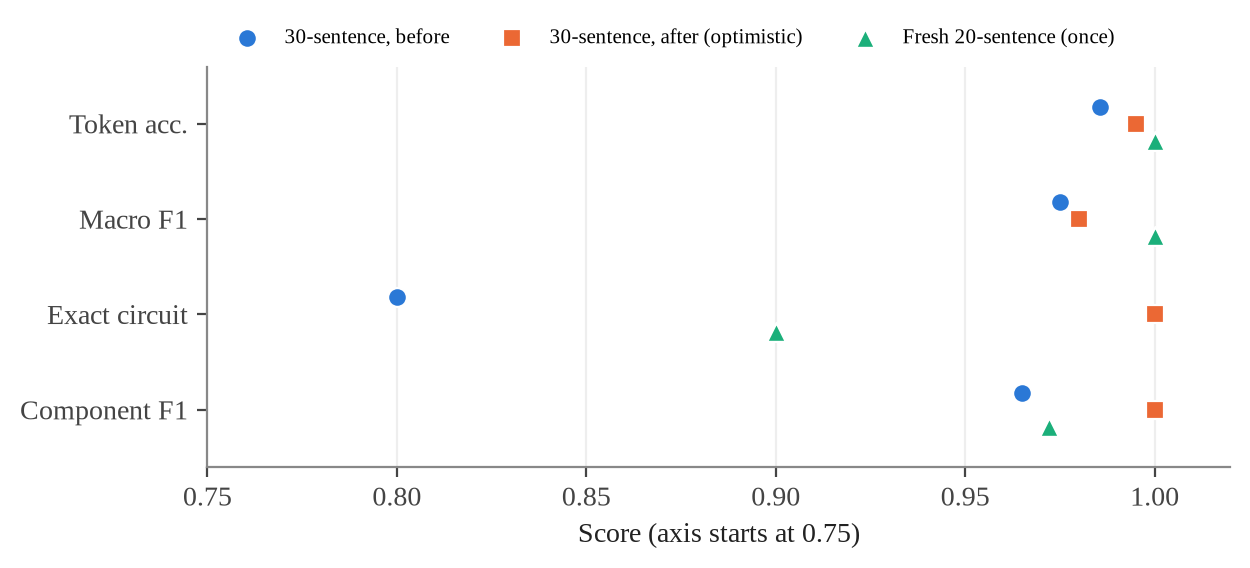
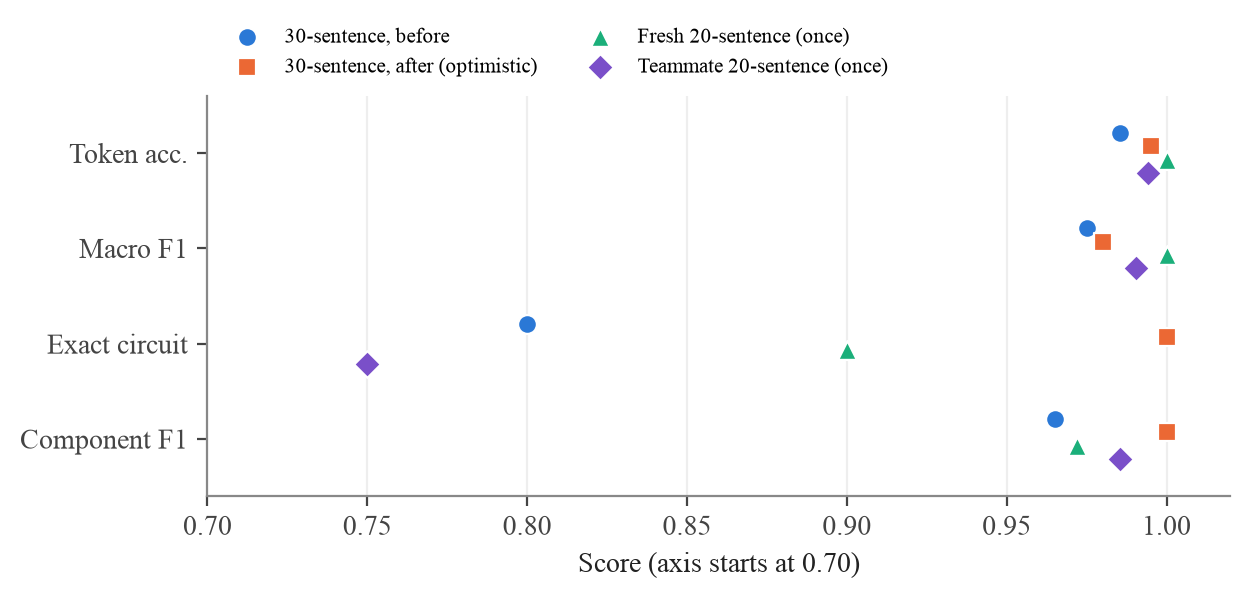
Report: 125 tests, the teammate NLP set, and the drafter-12 references
Updates the test count and per-file table, adds the T-7 result (0.75 exact
on a set written without seeing the parser) to the NLP table, chart and
discussion, and describes the T-3 reference netlists in the methodology.
Real CGHD values stay PENDING. The Word file was not rebuilt here
(LibreOffice and poppler are not installed on this machine).

diff --git a/report/content.js b/report/content.js
@@ -62,7 +62,7 @@ module.exports.prelim = {
   abstract: [
     ["p", "Engineers and students routinely sketch circuits on paper, but simulating a sketch requires retyping it as a SPICE netlist, which is slow and error-prone. This project presents **CircuitVision**, a system that converts a phone photograph of a hand-drawn circuit, or an English description of one, into a SPICE netlist that is formally validated and simulated."],
     ["p", "The image path combines computer vision and image processing: a YOLOv8s detector for nine symbol classes, a HOG and linear-SVM classifier for the orientation (and hence polarity) of diodes and sources, paper-relative binarisation with Otsu thresholding, scale-adaptive wire tracing with crossover handling, and EasyOCR for component values. The text path uses NLP: a hidden Markov model tagger with Viterbi decoding and a series-parallel semantic parser. Both paths share a context-free grammar with an Earley recogniser and semantic checks, followed by ngspice simulation. The detector is trained on the public CGHD dataset with a drafter-wise split (validation drafter 11, test drafter 12)."],
-    ["p", "On synthetic drawings with known circuit graphs, the wire tracer recovers the exact topology in 99.4% of 165 trials across eleven photo conditions, and 18 of 18 circuits match their reference netlists, including the simulated operating point, when ground-truth boxes are used. The text path reaches 90% exact circuit match on a fresh 20-sentence test set. The real CGHD detection experiment is fully prepared but had not been run at the time of writing, so no real-photo accuracy is claimed; those results are marked as pending."],
+    ["p", "On synthetic drawings with known circuit graphs, the wire tracer recovers the exact topology in 99.4% of 165 trials across eleven photo conditions, and 18 of 18 circuits match their reference netlists, including the simulated operating point, when ground-truth boxes are used. The text path reaches 90% exact circuit match on a fresh 20-sentence test set, and 75% on a second 20-sentence set written by a teammate who had not seen the parser. The real CGHD detection experiment is fully prepared but had not been run at the time of writing, so no real-photo accuracy is claimed; those results are marked as pending."],
   ],
 };
 
@@ -171,7 +171,7 @@ module.exports.chapters = [
    "**Reproducibility:** fixed training configuration and seed, dataset pinned by MD5, every run's configuration and environment recorded.",
    "**Honesty of reporting:** every number labelled as real, synthetic/controlled, hand-written evaluation or pending; proxies named as proxies.",
    "**Robustness:** processing parameters scale with the size of the drawing, so the same code handles 400-pixel scans and 4,000-pixel phone photos.",
-   "**Testability:** every stage covered by automated pytest regression tests (107 tests at the time of writing).",
+   "**Testability:** every stage covered by automated pytest regression tests (125 tests at the time of writing).",
    "**Portability:** runs on CPU for inference and tests (macOS or Linux); training uses a Colab T4 GPU.",
    "**Resumability:** the experiment notebook resumes after a disconnect without repeating finished stages.",
  ]],
@@ -214,10 +214,10 @@ module.exports.chapters = [
  ["h3", "4.2.2 Train / validation / test separation"],
  ["p", "The split is by **drafter**, so no person's handwriting appears in both training and test data: validation is `drafter_11`, test is `drafter_12`, and all other drafters are used for training. The split was fixed before any training. It differs from the split used by Bayer *et al.* (test drafters 23–24) {cite:modular}, so the numbers are not directly comparable with theirs."],
  ["h3", "4.2.3 Synthetic data with known circuit graphs"],
- ["p", "CGHD release 14 contains bounding boxes but no ground-truth circuit graphs, so the correctness of a reconstructed circuit cannot be measured on real photos. To measure topology exactly, a generator (`synth.py`) draws five circuits with known graphs (a voltage divider, a parallel RC with junction dots, two independent loops crossing twice, a series RLC and a Wheatstone-style bridge) under eleven photo conditions ({fig:conditions}). It can also write a synthetic tree in the CGHD format, with reference netlists, so that the full evaluation harness runs end to end. **Results on these data are labelled SYNTHETIC and say nothing about real photos.**"],
+ ["p", "CGHD release 14 contains bounding boxes but no ground-truth circuit graphs, so the correctness of a reconstructed circuit cannot be measured on real photos. To measure topology exactly, a generator (`synth.py`) draws five circuits with known graphs (a voltage divider, a parallel RC with junction dots, two independent loops crossing twice, a series RLC and a Wheatstone-style bridge) under eleven photo conditions ({fig:conditions}). It can also write a synthetic tree in the CGHD format, with reference netlists, so that the full evaluation harness runs end to end. **Results on these data are labelled SYNTHETIC and say nothing about real photos.** For the real test drafter, reference netlists were written for the 12 drawings that contain in-scope symbols (circuits C133–C138, two drawings each; C139–C144 are logic-gate diagrams with nothing to reconstruct). They were drafted from the photos without running the pipeline and checked against the photos by a team member. Out-of-scope parts (switches, AC sources) are left out of these references with their terminals kept apart, as the pipeline masks them, so only circuit C137 is complete enough to simulate."],
  ["fig", "fig_conditions.png", 540, "conditions", "Six of the eleven synthetic photo conditions applied to the crossover circuit"],
  ["h3", "4.2.4 Text data"],
- ["p", "The HMM tagger is trained on 3,000 sentences generated from templates with lexical variation (`nlp/corpus.py`). Evaluation uses two **hand-written** sets that the training corpus never sees: a 30-sentence set frozen before the NLP improvements (later used for error analysis, so its post-change score is optimistic), and a fresh 20-sentence set written after development and evaluated exactly once."],
+ ["p", "The HMM tagger is trained on 3,000 sentences generated from templates with lexical variation (`nlp/corpus.py`). Evaluation uses three **hand-written** sets that the training corpus never sees: a 30-sentence set frozen before the NLP improvements (later used for error analysis, so its post-change score is optimistic), a fresh 20-sentence set written after development and evaluated exactly once, and a second 20-sentence set written by a teammate who had not seen the parser or the earlier sets, kept exactly as typed (final full stops included) and also evaluated exactly once."],
  ["h2", "4.3 Data Preprocessing"],
  ["h3", "4.3.1 Annotation conversion"],
  ["p", "Each VOC object is mapped through the explicit class table ({tab:classmap}); boxes are clipped to the image and zero-area boxes are dropped, with every change counted in `conversion_stats.json`. YOLO labels are written as `class cx cy w h`, normalised by the annotated image size."],
@@ -271,7 +271,7 @@ module.exports.chapters = [
    ["EasyOCR", "1.7.2", "Reading values"],
    ["ngspice {cite:ngspice}", "42", "Circuit simulation"],
    ["Gradio {cite:gradio}", "≥ 5", "Web demo"],
-   ["pytest", "—", "107 regression tests"],
+   ["pytest", "—", "125 regression tests"],
    ["Google Colab (T4 GPU) + Drive", "—", "Training and evaluation runs"],
    ["Git / GitHub", "—", "Version control, pull requests"],
  ], [3000, 2300, 3366]],
@@ -321,7 +321,7 @@ module.exports.chapters = [
    "**Defaults.** Without a readable value, components get placeholder defaults (R 1k, C 1u, L 1m, V DC 5); diodes use a generic `.model DMOD D`. An element without exactly two terminals is not emitted but flagged as a `* WARNING` comment, so a broken reconstruction is visible rather than silently wrong.",
    "**Text parser.** Each component noun takes its nearest unclaimed value; an explicit unit decides the class; count words (\"two 1k resistors\") repeat elements; parentheses group explicitly; a comma followed by an operator closes the preceding clause (\"A and B in parallel, in series with C\" → S(P(A,B),C)); otherwise operators attach to the right, as in prepositional-phrase attachment. The source is placed across the whole load.",
    "**Evaluation.** `evaluate.py` runs every downstream stage twice, with ground-truth boxes (an oracle detector) and with detector boxes, on all images and on the subset without out-of-scope symbols, and writes CSV files, netlists and a JSON summary. `report_tables.py` builds the results tables only from these files and prints NOT AVAILABLE when an artefact is missing.",
-   "**Testing and reproducibility.** 107 pytest tests across 13 files cover every stage, including one real CGHD annotation file as a regression fixture. The experiment notebook pins package versions, records the commit, the dataset checksum, the GPU and the full package list, and bundles all evidence into a ZIP file.",
+   "**Testing and reproducibility.** 125 pytest tests across 14 files cover every stage, including one real CGHD annotation file as a regression fixture. The experiment notebook pins package versions, records the commit, the dataset checksum, the GPU and the full package list, and bundles all evidence into a ZIP file.",
  ]],
  ["h2", "5.5 Screenshots of the Running System"],
  ["p", "{fig:app} shows the Gradio web demo processing a synthetic drawing with a detector trained on synthetic data (the real-data model is pending). The overlay colours each net; the netlist reads the handwritten-style values `4k7`, `9V` and `220`; validation passes; and ngspice gives v(2) = 0.4024 V, which matches 9 × 220 / (4700 + 220). {fig:console1} and {fig:console2} show the command-line tools and the test suite."],
@@ -354,7 +354,7 @@ module.exports.chapters = [
    ["Detection", "Precision, recall, mAP@0.5, mAP@0.5:0.95, per-class AP, confusion matrix", "Ultralytics validation on test drafter 12; error categories at IoU 0.5, confidence 0.25"],
    ["Orientation", "Accuracy", "Against CGHD rotation binned to 90°, mirrored symbols excluded; valid only under the Gate 1 convention"],
    ["OCR", "Exact match; character accuracy (1 − CER)", "On ground-truth text boxes; all labels and value-like labels"],
-   ["Topology", "Topology / exact / operating-point match", "Only where a reference netlist exists (synthetic data)"],
+   ["Topology", "Topology / exact / operating-point match", "Only where a reference netlist exists: synthetic data, and 12 drafter-12 drawings (operating point only for the one complete circuit)"],
    ["Topology (real)", "2-terminal share; cross-photo consistency", "Proxies: consistent is not the same as correct"],
    ["Netlist", "Valid share; simulates share", "A valid netlist is not necessarily the drawn circuit"],
    ["Text path", "Token accuracy, per-tag P/R/F1, macro F1, exact circuit match, component P/R/F1", "Tagging scored on gold tokens; circuit scored from the raw sentence"],
@@ -390,9 +390,10 @@ module.exports.chapters = [
    ["30-sentence set, before NLP changes", "30", "0.986", "0.975", "0.800", "0.965", "1.000"],
    ["30-sentence set, after changes (optimistic)", "30", "0.995", "0.980", "1.000", "1.000", "1.000"],
    ["Fresh 20-sentence set, evaluated once", "20", "1.000", "1.000", "0.900", "0.972", "1.000"],
+   ["Teammate 20-sentence set, evaluated once", "20", "0.994", "0.990", "0.750", "0.986", "1.000"],
  ], [2866, 650, 950, 950, 1100, 1100, 1050]],
- ["fig", "fig_nlp_chart.png", 500, "nlpchart", "Text-to-netlist scores on the three evaluation runs (HAND-WRITTEN)"],
- ["p", "The 30-sentence set was frozen before any NLP change, but development then targeted the error categories its baseline exposed, so its after-score is optimistic. The fresh set, written after development and evaluated once, is the clean estimate: 90% exact circuit match, with every generated netlist valid. On the synthetic corpus, the tagger reaches 1.000 token accuracy on held-out sentences from the training templates, but 0.897 on phrasings never used in training (exact circuit 0.980), showing that the semantic constraints recover much of what the tagger misses."],
+ ["fig", "fig_nlp_chart.png", 500, "nlpchart", "Text-to-netlist scores on the four evaluation runs (HAND-WRITTEN)"],
+ ["p", "The 30-sentence set was frozen before any NLP change, but development then targeted the error categories its baseline exposed, so its after-score is optimistic. The fresh set, written after development and evaluated once, gives 90% exact circuit match, with every generated netlist valid. The teammate's set is the most independent test, because its author had not seen the parser: 75% exact circuit match, still with every netlist valid and component F1 0.986. All five of its failures are structural, not lexical: \"across both of them\" meaning parallel, a physical order given with \"through\", a parallel group placed before \"connected in series with\", and two parts attached \"across\" a single earlier part. The two independent sets together suggest that the parser handles vocabulary and values well but only the common sentence structures. On the synthetic corpus, the tagger reaches 1.000 token accuracy on held-out sentences from the training templates, but 0.897 on phrasings never used in training (exact circuit 0.980), showing that the semantic constraints recover much of what the tagger misses."],
  ["table", "nlperr", "Failures on the fresh 20-sentence set", ["Sentence", "Expected", "Produced", "Cause"], [
    ["a 9 volt battery with a 330R resistor and an LED in series", "S(resistor 330, diode)", "S(resistor default, diode)", "Trailing-R ohm notation \"330R\" not parsed as a value"],
    ["a pair of 10k resistors in parallel", "P(resistor 10k, resistor 10k)", "single resistor 10k", "Count phrase \"a pair of\" not in the count lexicon"],
@@ -443,7 +444,7 @@ module.exports.chapters = [
    ["3. Robust wire tracing", "Achieved on synthetic data: 99.4% exact topology over 11 conditions"],
    ["4. Value reading and attachment", "Implemented; 0.914–0.958 exact on synthetic labels; real result PENDING"],
    ["5. Netlist, validation, simulation", "Achieved: valid netlists and correct operating points on all synthetic GT-box cases"],
-   ["6. Text-to-netlist", "Achieved: 0.90 exact circuit match on a fresh hand-written set"],
+   ["6. Text-to-netlist", "Achieved: 0.90 and 0.75 exact circuit match on two independent hand-written sets"],
    ["7. Stage-wise, labelled evaluation", "Achieved: harness, gates, evidence bundle and tables generated from artefacts"],
  ], [3600, 5066]],
  ["h2", "7.3 Key Findings"],
@@ -459,7 +460,7 @@ module.exports.chapters = [
  ["h2", "7.5 Future Improvements"],
  ["ol", [
    "Run baseline_v1 on a Colab T4, clear Gates 1 and 2, and fill Section 6.3 from the evidence bundle.",
-   "Hand-annotate reference netlists for a sample of test-drafter drawings, so real topology can be measured exactly rather than through proxies.",
+   "Extend the reference netlists beyond the 12 drafter-12 drawings, so real topology is measured on more than a handful of circuits.",
    "Add a second run with the split used in the literature (test drafters 23–24) for comparability.",
    "Detect terminals as keypoints to support transistors and op-amps, and add AC sources with transient simulation.",
    "Improve crossover handling with local line-direction analysis at wire crossings.",
@@ -487,16 +488,17 @@ module.exports.appendices = [
   ["code", "<annotation>\n  <filename>C145_D1_P1.jpg</filename>\n  <size><width>1536</width><height>2049</height><depth>3</depth></size>\n  <object>\n    <name>lamp</name>\n    <bndbox>\n      <xmin>674</xmin><ymin>703</ymin><xmax>826</xmax><ymax>845</ymax>\n    </bndbox>\n  </object>\n  <object>\n    <name>voltage.battery</name>\n    <bndbox>\n      <xmin>399</xmin><ymin>897</ymin><xmax>588</xmax><ymax>967</ymax>\n      <rotation>269</rotation>\n    </bndbox>\n  </object>\n  <object>\n    <name>switch</name> ...\n</annotation>"],
  ]],
  ["Appendix D: Test Cases", [
-  ["table", "tests", "Automated regression tests (107 in total)", ["Test file", "Tests", "Covers"], [
+  ["table", "tests", "Automated regression tests (125 in total)", ["Test file", "Tests", "Covers"], [
    ["test_topology.py", "54", "Wire tracing under scale, grid, shadow, pen gaps, junction dots, crossovers"],
-   ["test_cghd_format.py", "10", "Real XML fixture, rotation in bndbox, mirror, EXIF frames, implicit ground"],
+   ["test_cghd_format.py", "13", "Real XML fixture, rotation in bndbox, mirror, EXIF frames, implicit ground"],
    ["test_text2netlist.py", "6", "Tagger and parser on development sentences; frozen set well-formed"],
    ["test_compare.py", "5", "Isomorphism and operating-point comparison"],
    ["test_grammar.py", "5", "Earley validator and semantic checks"],
    ["test_audit_images.py", "4", "Header-based image sizes equal full decodes for all EXIF orientations"],
    ["test_dataset.py", "4", "CGHD-to-YOLO conversion counts and labels"],
    ["test_detector_eval.py", "4", "Detector evaluation harness"],
-   ["test_evaluate.py", "4", "Downstream evaluation harness"],
+   ["test_evaluate.py", "6", "Downstream evaluation harness; finding and scoring against reference netlists"],
+   ["test_references.py", "13", "Every drafter-12 reference netlist and the template pass the grammar check"],
    ["test_orientation.py", "4", "Rotation convention and HOG + SVM learning"],
    ["test_pipeline.py", "3", "End to end on drawn fixtures, crossover does not short"],
    ["test_simulate.py", "2", "ngspice operating point"],

diff --git a/report/make_figs.py b/report/make_figs.py
@@ -27,7 +27,7 @@ OUT.mkdir(parents=True, exist_ok=True)
 E2E = Path(sys.argv[2])            # synthetic run folder (synth_best.pt, cghd2/); only fig_detector needs it
 plt.rcParams.update({"font.family": "Liberation Serif", "font.size": 10, "axes.edgecolor": "#888",
                      "axes.labelcolor": "#222", "xtick.color": "#444", "ytick.color": "#444"})
-BLUE, ORANGE, AQUA = "#2a78d6", "#eb6834", "#1baf7a"
+BLUE, ORANGE, AQUA, VIOLET = "#2a78d6", "#eb6834", "#1baf7a", "#7a4fc9"
 INK, MUTED, BOXFILL = "#1f2937", "#6b7280", "#eef3fb"
 
 
@@ -212,7 +212,7 @@ def fig_topology_chart():
 
 def fig_nlp_chart():
     sets = [("30-sentence, before", "nlp_eval_baseline.json"), ("30-sentence, after (optimistic)", "nlp_eval.json"),
-            ("Fresh 20-sentence (once)", "nlp_eval_fresh.json")]
+            ("Fresh 20-sentence (once)", "nlp_eval_fresh.json"), ("Teammate 20-sentence (once)", "nlp_eval_pawan.json")]
     metrics = [("token_accuracy", "Token acc."), ("macro_f1", "Macro F1"), ("exact_match", "Exact circuit"),
                ("component_f1", "Component F1")]
     paths = {"token_accuracy": ("tagging", "token_accuracy"), "macro_f1": ("tagging", "macro_f1"),
@@ -230,12 +230,12 @@ def fig_nlp_chart():
     data = np.array(data, float)
     fig, ax = plt.subplots(figsize=(6.6, 2.6))
     y = np.arange(len(metrics))[::-1]
-    for i, ((name, _), col, mk) in enumerate(zip(sets, (BLUE, ORANGE, AQUA), ("o", "s", "^"))):
-        ax.scatter(data[i], y + (1 - i) * 0.18, s=46, color=col, marker=mk, label=name, zorder=3,
+    for i, ((name, _), col, mk) in enumerate(zip(sets, (BLUE, ORANGE, AQUA, VIOLET), ("o", "s", "^", "D"))):
+        ax.scatter(data[i], y + (1.5 - i) * 0.14, s=46, color=col, marker=mk, label=name, zorder=3,
                    edgecolors="white", linewidths=0.8)
-    ax.set_yticks(y, [m[1] for m in metrics]); ax.set_xlim(0.75, 1.02); ax.set_ylim(-0.6, len(metrics) - 0.4)
-    ax.set_xlabel("Score (axis starts at 0.75)")
-    ax.legend(fontsize=7.5, frameon=False, loc="lower left", ncol=3, bbox_to_anchor=(0, 1.0))
+    ax.set_yticks(y, [m[1] for m in metrics]); ax.set_xlim(0.70, 1.02); ax.set_ylim(-0.6, len(metrics) - 0.4)
+    ax.set_xlabel("Score (axis starts at 0.70)")
+    ax.legend(fontsize=7.5, frameon=False, loc="lower left", ncol=2, bbox_to_anchor=(0, 1.0))
     for s in ("top", "right"):
         ax.spines[s].set_visible(False)
     ax.grid(axis="x", color="#eee"); ax.set_axisbelow(True)
